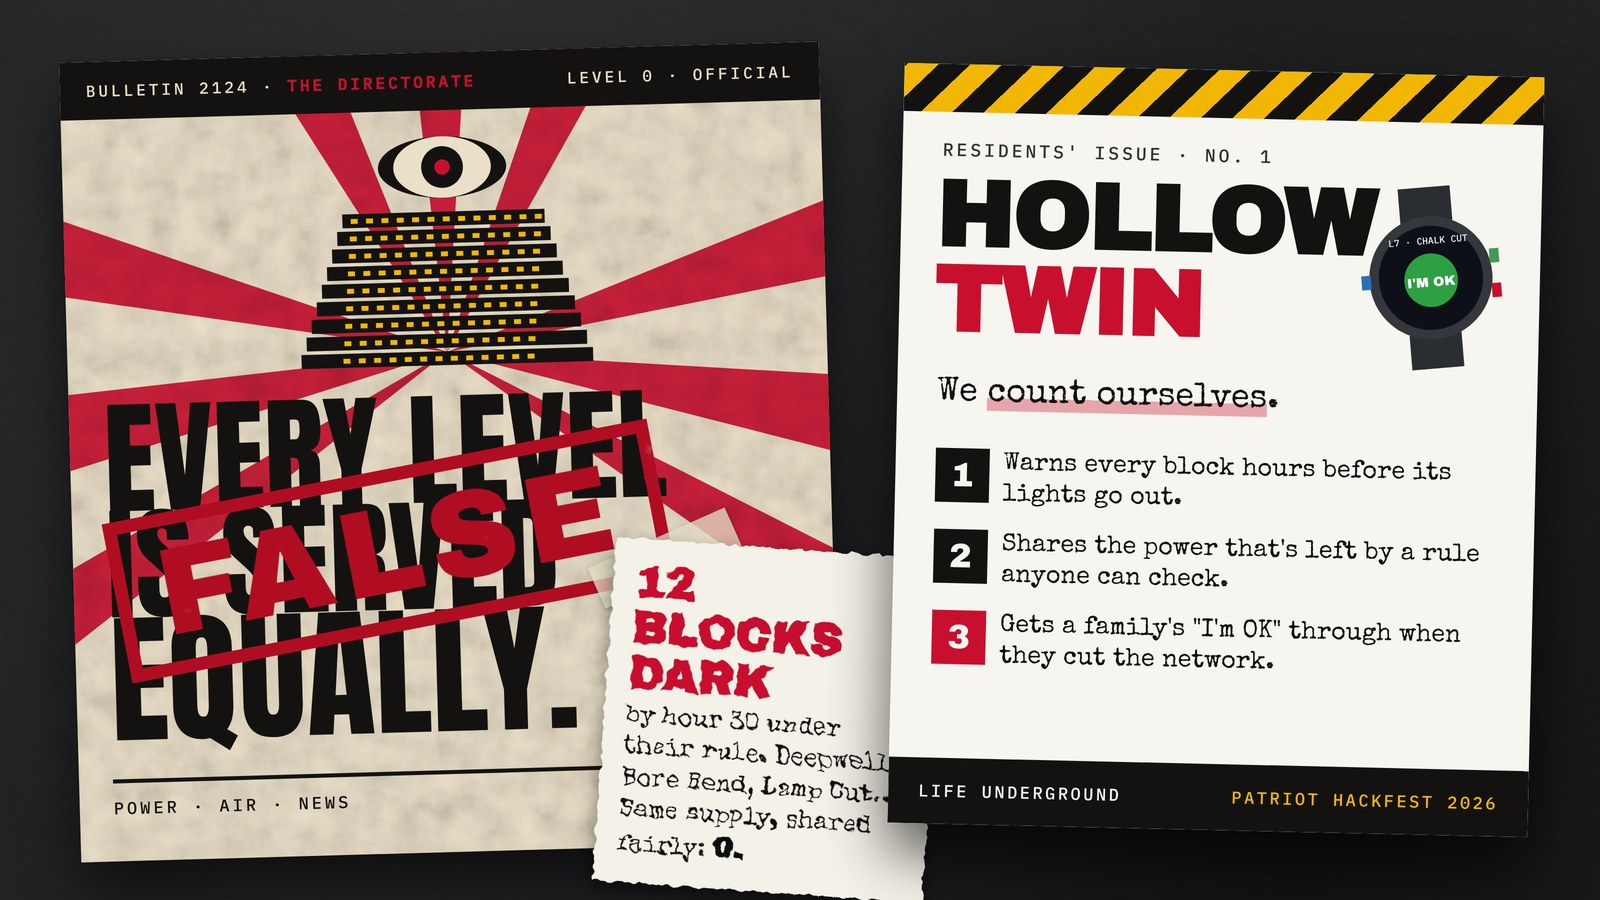
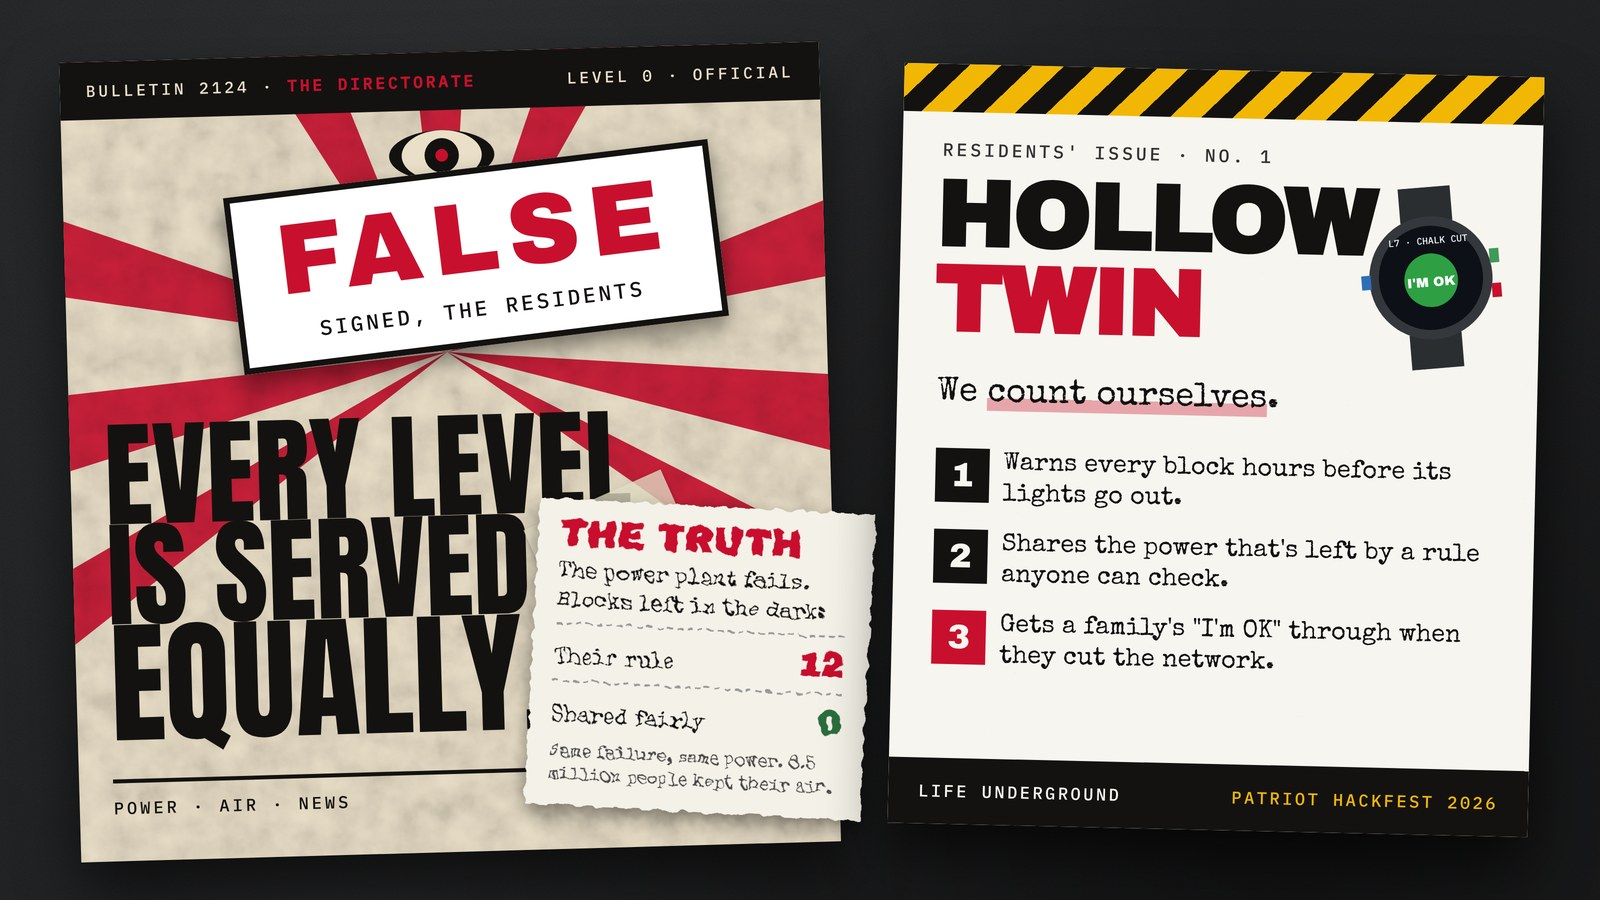
art: FALSE as a readable sticker, and "the truth" in plain words
The FALSE stamp sat on the slogan and was hard to read; it is now a white
sticker ("signed, the residents") over the picture, with the slogan clear
underneath. The note now says what the numbers mean: the power plant
fails; blocks left in the dark: their rule 12, shared fairly 0.

Claude-Session: https://claude.ai/code/session_01S8R6Jc9L3RcrjD2L4ha6v9

Changed region(s): [[0.0625, 0.1244, 0.5938, 1.0]]

diff --git a/docs/art/hero.html b/docs/art/hero.html
@@ -21,17 +21,22 @@ body { position: relative; font-family: 'IBM Plex Mono', monospace; }
 .poster .band { position: absolute; left: 0; right: 0; top: 0; height: 58px; background: var(--ink); color: var(--cream); display: flex; align-items: center; justify-content: space-between; padding: 0 26px; font: 16px 'IBM Plex Mono'; letter-spacing: 3px; }
 .poster .band b { color: var(--red); }
 .poster .slogan { position: absolute; left: 34px; right: 34px; bottom: 120px; font-family: 'Anton'; color: var(--ink); line-height: .86; text-transform: uppercase; }
-.poster .slogan .l1 { font-size: 124px; } .poster .slogan .l2 { font-size: 124px; } .poster .slogan .l3 { font-size: 142px; }
+.poster .slogan .l1 { font-size: 116px; } .poster .slogan .l2 { font-size: 116px; } .poster .slogan .l3 { font-size: 134px; }
 .poster .foot { position: absolute; left: 34px; right: 34px; bottom: 42px; display: flex; justify-content: space-between; font: 17px 'IBM Plex Mono'; letter-spacing: 3px; color: var(--ink); border-top: 4px solid var(--ink); padding-top: 14px; }
-.poster svg.stack { position: absolute; left: 50%; top: 74px; transform: translateX(-50%); }
+.poster svg.stack { position: absolute; left: 50%; top: 70px; transform: translateX(-50%); }
 
 /* the residents' answer, pasted over it */
 .tape { position: absolute; width: 150px; height: 44px; background: rgba(226, 220, 196, .78); box-shadow: 0 2px 4px rgba(0,0,0,.25); }
-.false { position: absolute; left: 112px; top: 470px; transform: rotate(-11deg); font-family: 'Archivo Black'; font-size: 124px; color: #B00C24; letter-spacing: 8px;
-  border: 13px solid #B00C24; padding: 0 30px; line-height: 1.1; filter: url(#stamp); }
+.false { position: absolute; left: 232px; top: 168px; transform: rotate(-7deg); font-family: 'Archivo Black'; font-size: 100px; line-height: 1; color: #C8102E; letter-spacing: 10px;
+  background: #FFFFFF; padding: 14px 40px 18px; border: 6px solid #141210; box-shadow: 0 10px 22px rgba(0,0,0,.45); }
+.false small { display: block; font: 21px 'IBM Plex Mono'; letter-spacing: 3px; color: #141210; margin-top: 6px; text-align: center; }
 .scrap { position: absolute; background: #F4F1E8; color: #111; font-family: 'Special Elite'; box-shadow: 0 8px 18px rgba(0,0,0,.45); filter: url(#torn); }
-.scrap.s1 { left: 604px; top: 548px; width: 330px; padding: 20px 22px 22px; transform: rotate(4deg); font-size: 25px; line-height: 1.25; }
-.scrap.s1 b { font-family: 'Archivo Black'; font-size: 46px; color: var(--red); display: block; line-height: 1; margin-bottom: 4px; }
+.scrap.s1 { left: 532px; top: 506px; width: 336px; padding: 16px 24px 18px 22px; transform: rotate(3deg); font-size: 22px; line-height: 1.3; }
+.scrap.s1 b.h { font-family: 'Archivo Black'; font-size: 36px; color: #C8102E; display: block; line-height: 1; margin-bottom: 8px; letter-spacing: 1px; }
+.scrap.s1 .row { display: grid; grid-template-columns: 1fr auto; align-items: baseline; border-top: 2px dashed #999; padding-top: 6px; margin-top: 6px; }
+.scrap.s1 .row b { font-family: 'Archivo Black'; font-size: 34px; }
+.scrap.s1 .row.bad b { color: #C8102E; } .scrap.s1 .row.good b { color: #2c6e3e; }
+.scrap.s1 .sm { font-size: 18px; color: #444; margin-top: 8px; }
 
 /* ---------- the zine ---------- */
 .zine { position: absolute; right: 64px; top: 70px; width: 640px; height: 760px; background: #F7F5EF; transform: rotate(1.3deg); box-shadow: 0 30px 60px rgba(0,0,0,.65); overflow: hidden; }
@@ -79,7 +84,7 @@ body { position: relative; font-family: 'IBM Plex Mono', monospace; }
   <div class="paper"></div>
   <div class="band"><span>BULLETIN 2124 · <b>THE DIRECTORATE</b></span><span>LEVEL 0 · OFFICIAL</span></div>
   <!-- the eye over the nine levels, all "lit" in the Directorate's picture -->
-  <svg class="stack" width="300" height="252" viewBox="0 0 430 360">
+  <svg class="stack" width="246" height="206" viewBox="0 0 430 360">
     <g transform="translate(215 58)">
       <ellipse rx="92" ry="44" fill="#141210"/><ellipse rx="70" ry="44" fill="#EADFC8"/><circle r="30" fill="#141210"/><circle r="11" fill="#C8102E"/>
     </g>
@@ -99,9 +104,12 @@ body { position: relative; font-family: 'IBM Plex Mono', monospace; }
 </div>
 
 <!-- the residents' answer, over the poster -->
-<div class="false">FALSE</div>
-<div class="tape" style="left: 590px; top: 536px; transform: rotate(-24deg)"></div>
-<div class="scrap s1"><b>12 BLOCKS DARK</b>by hour 30 under their rule. Deepwell, Bore Bend, Lamp Cut… <br>Same supply, shared fairly: <b style="display:inline;font-size:30px;color:#111">0.</b></div>
+<div class="false">FALSE<small>SIGNED, THE RESIDENTS</small></div>
+<div class="tape" style="left: 526px; top: 498px; transform: rotate(-24deg)"></div>
+<div class="scrap s1"><b class="h">THE TRUTH</b>The power plant fails. Blocks left in the dark:
+  <div class="row bad"><span>Their rule</span><b>12</b></div>
+  <div class="row good"><span>Shared fairly</span><b>0</b></div>
+  <div class="sm">Same failure, same power. 8.5 million people kept their air.</div></div>
 
 <div class="zine">
   <div class="xerox"></div>

diff --git a/README.md b/README.md
@@ -1,6 +1,6 @@
 # Hollow Twin
 
-![The Directorate's poster says every level is served equally. The residents stamp it FALSE: 12 blocks dark by hour 30 under its rule, 0 when the same supply is shared fairly.](docs/img/hollow-twin-hero.jpg)
+![The Directorate's poster says every level is served equally. The residents stick FALSE on it, with the truth: when the power plant fails, their rule leaves 12 blocks in the dark; sharing the same power fairly leaves 0.](docs/img/hollow-twin-hero.jpg)
 
 **When the power fails in the Hollow, the deep levels go dark first. When the Directorate cuts the network, nobody can tell their family they are alive. Hollow Twin warns each block before it goes dark, shares the power that is left fairly, and gets "I'm OK" through anyway: over relay boxes in every block, and where even they cannot reach, on a rover that drives the tunnels.**
 
